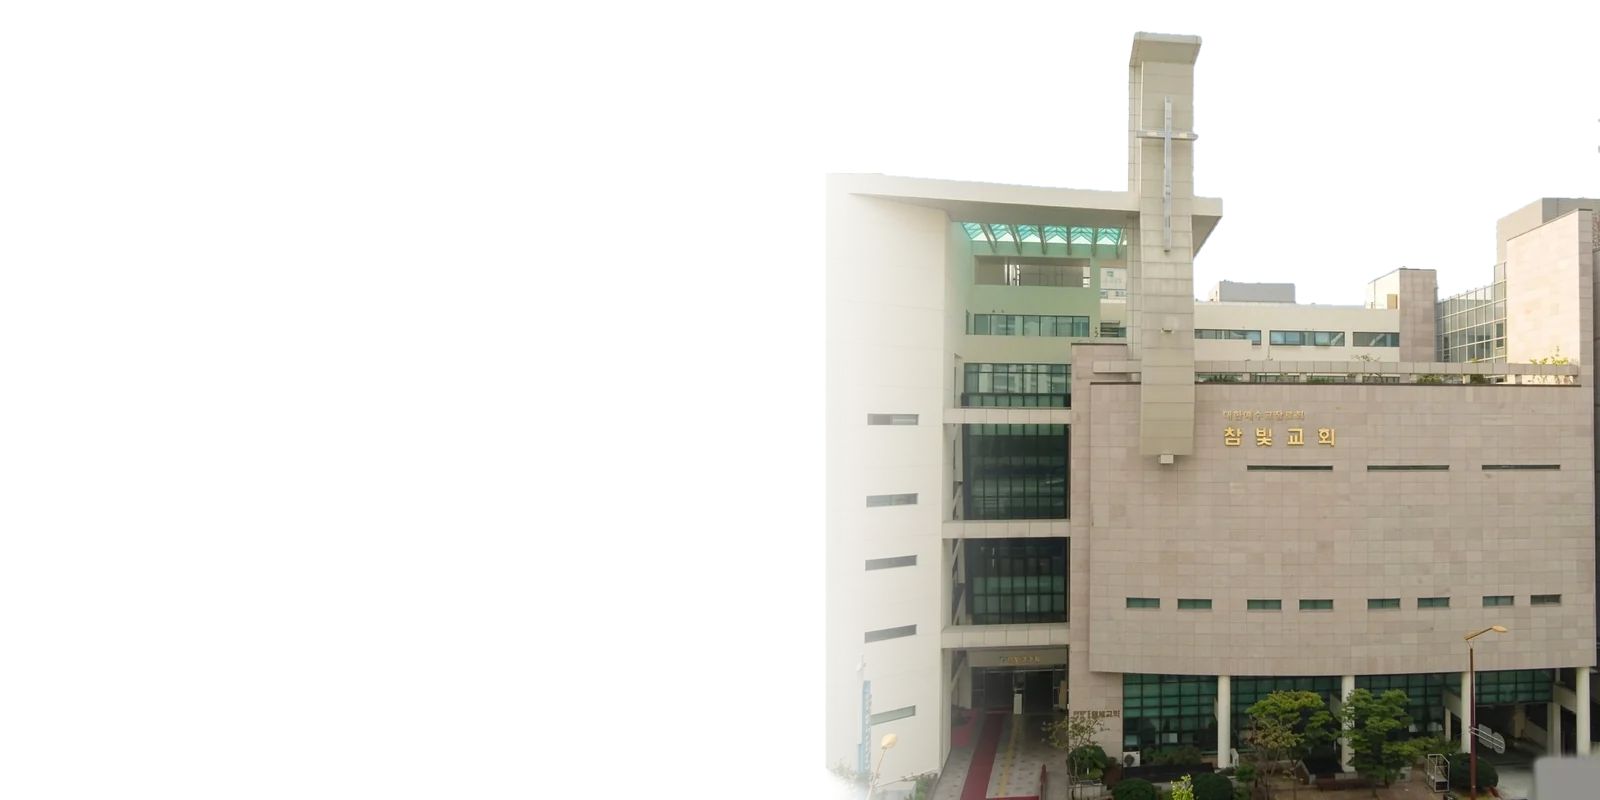
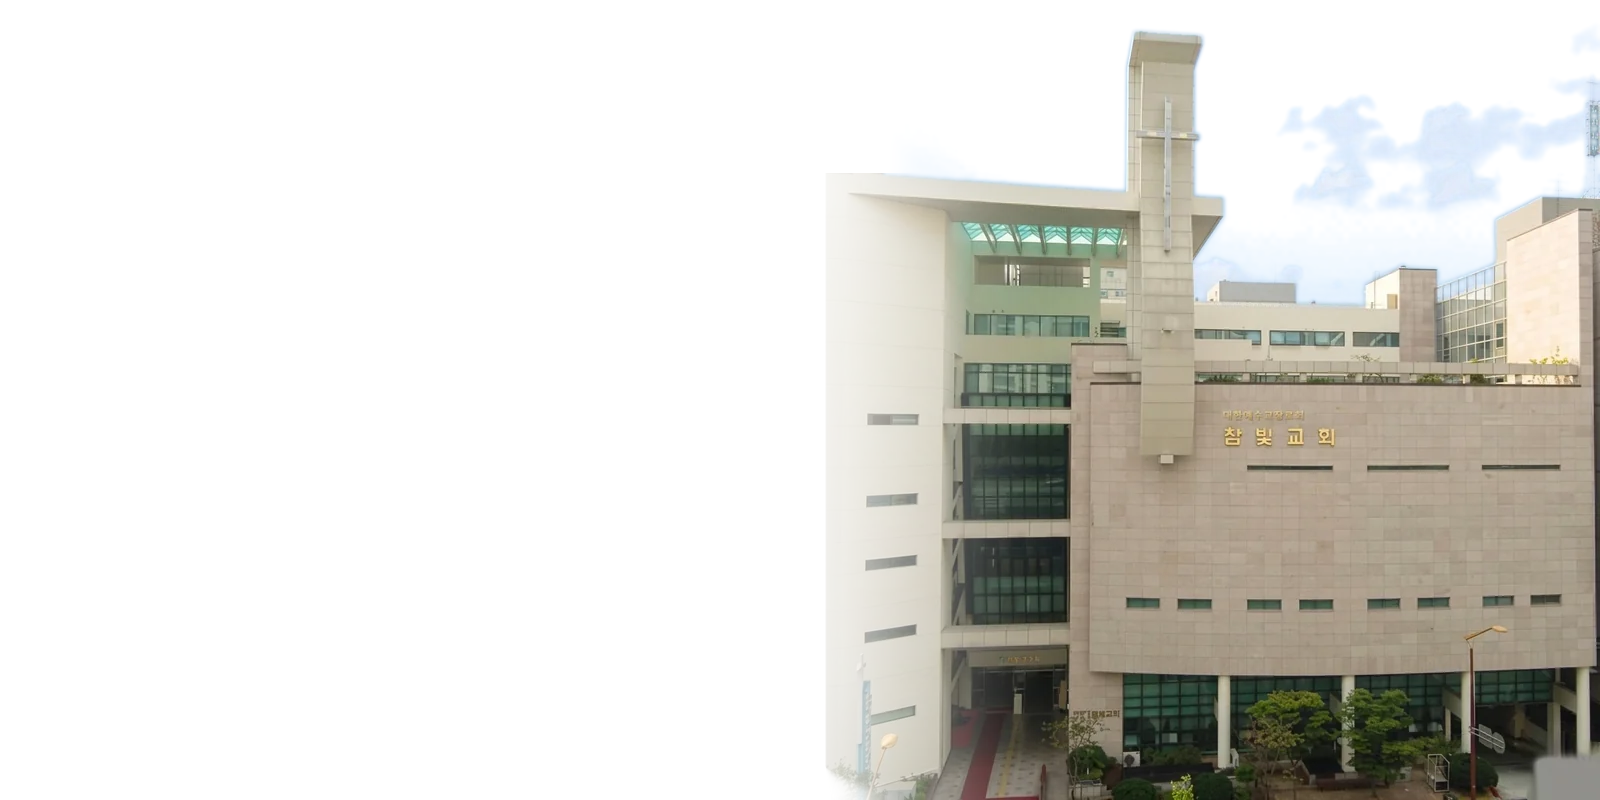
그만하자 오시는길 구름추가

Changed region(s): [[0.7812, 0.0938, 1.0, 0.2812], [0.7188, 0.3125, 0.9375, 0.4062], [0.5938, 0.2188, 0.6875, 0.25]]

diff --git a/frontend/src/pages/Visit/Visit.css b/frontend/src/pages/Visit/Visit.css
@@ -82,8 +82,8 @@
   position: relative;
   /* 모바일 높이 — 글자를 위로 밀어 올리고 건물을 아래에 쌓으면 카드가 높아진다(20:23→20:19 모두 "높다").
      PC 처럼 글자는 왼쪽 세로 중앙, 건물은 오른쪽 아래 — 왼쪽 동의 옅은 끝만 글자와 살짝 겹친다(레퍼런스 구도) */
-  aspect-ratio: 4 / 3;
-  min-height: 250px;
+  aspect-ratio: 7 / 5;   /* 4:3 에서 살짝 더 낮춤(2026-09-03) */
+  min-height: 240px;
   padding: 22px 22px 24px;
   display: flex;
   flex-direction: column;

diff --git a/frontend/scripts/build_visit_hero.py b/frontend/scripts/build_visit_hero.py
@@ -270,7 +270,17 @@ for key, path in SRC.items():
         ch = ch * NIGHT_DIM
     x0 = W - cw
     yy, xx = np.mgrid[0:H, 0:cw]
-    alpha = smoothstep(xx / EDGE_SOFT) * (1 - sky)   # 하늘은 투명 — 배경은 CSS 가 그린다
+    # 하늘은 투명 — 배경은 CSS 가 그린다. 단 낮 사진의 구름은 살린다(2026-09-03 요청): 파란 하늘 픽셀(b-r 큼)은
+    # 투명, 흰 구름 픽셀(b-r 작음)만 반투명으로 남겨 CSS 하늘 위에 떠 있게. 자산 위 가장자리는 페더로 녹여
+    # 모바일에서 사진 레이어 상단선에 구름이 잘려 보이지 않게 한다
+    if key == 'day':
+        # 맑은 하늘 b-r ≈ 100~130, 구름 심지 ≈ 0~25. 100 부터 서서히 — 옅은 뭉게 가장자리까지 살린다
+        cloud = np.clip((100 - (ch[..., 2] - ch[..., 0])) / 75, 0, 1) * 0.96
+        cloud = cloud * smoothstep(yy / 60)
+        cloud = np.asarray(Image.fromarray((cloud * 255).astype(np.uint8)).filter(ImageFilter.GaussianBlur(1.5))).astype(np.float32) / 255
+    else:
+        cloud = 0.0
+    alpha = smoothstep(xx / EDGE_SOFT) * (1 - sky * (1 - cloud))
     # 지붕 위 이웃 건물 지우기(투명으로)
     nx = (NEIGH[0] - WING_X) * scale
     neigh = (1 - smoothstep((xx - nx) / 40)) * (1 - smoothstep((yy - (roof_c - 1)) / 1.0))
